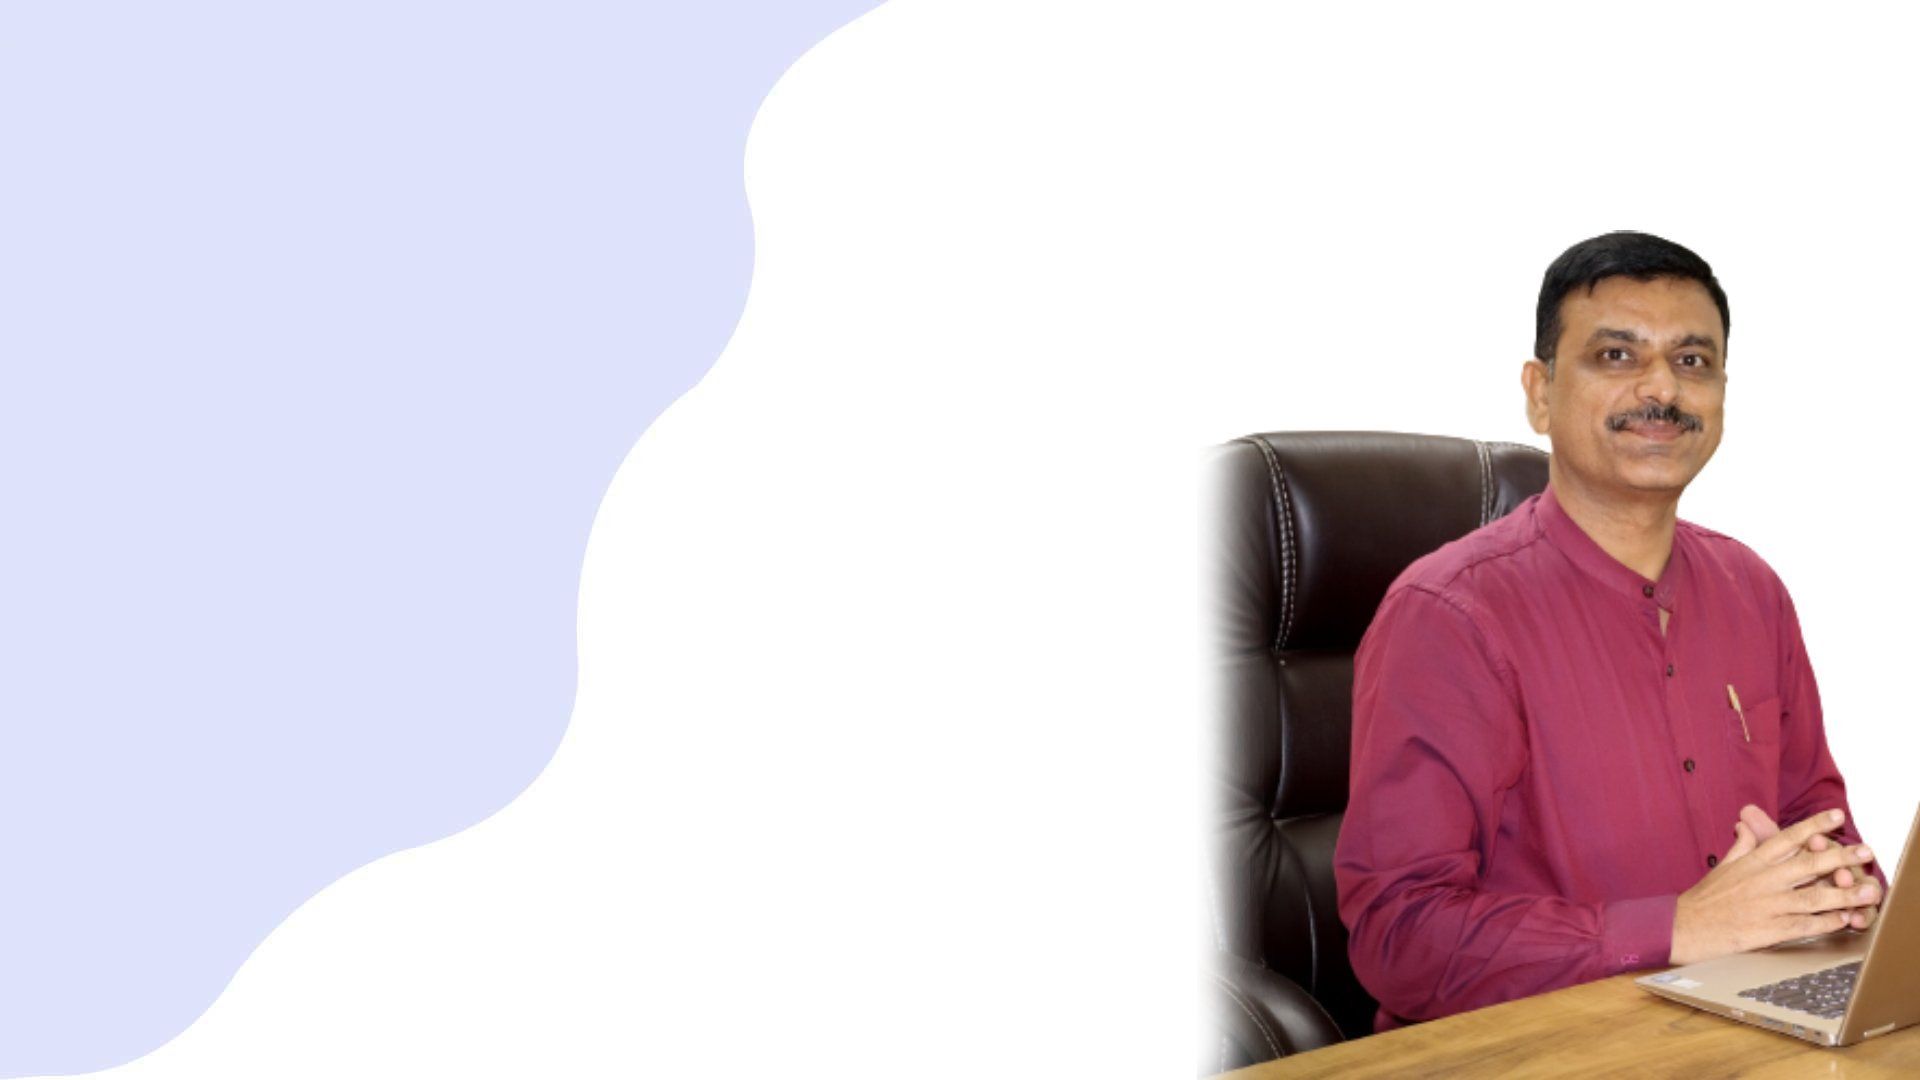
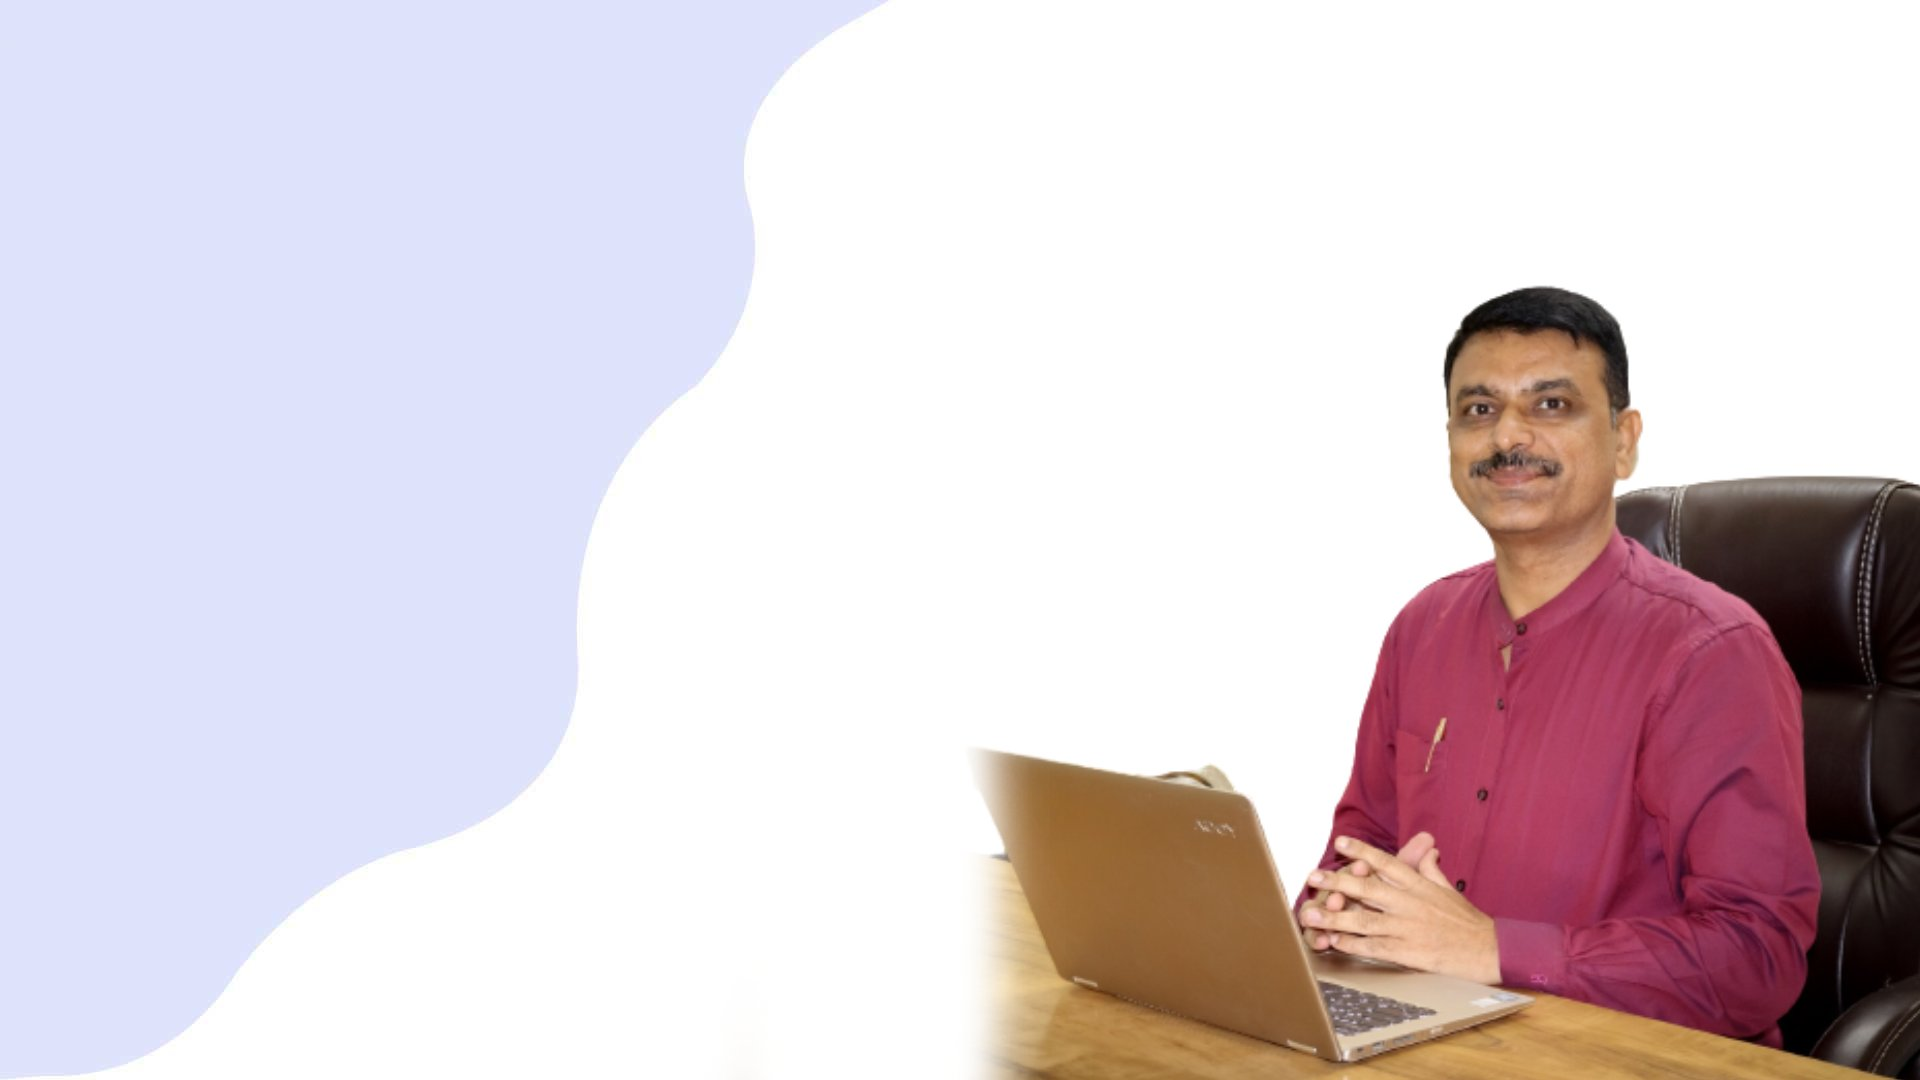
neew

Changed region(s): [[0.5, 0.2139, 1.0, 1.0], [0.8438, 0.9778, 0.875, 1.0]]

diff --git a/index.html b/index.html
@@ -125,7 +125,8 @@
         <div id="header-carousel" class="carousel slide carousel-fade" data-bs-ride="carousel">
             <div class="carousel-inner">
                 <div class="carousel-item active">
-                    <img class="w-100" src="img/carousel-1.jpg" alt="Image">
+                    <img class="w-100 d-none d-md-block" src="img/carousel-1.jpg" alt="Image">
+                    <img class="w-100 d-block d-md-none" src="img/mcarousel-1.jpg" alt="Image">
                     <div class="carousel-caption">
                         <div class="container">
                             <div class="row justify-content-start">
@@ -147,9 +148,6 @@
                         <div class="container">
                             <div class="row justify-content-start">
                                 <div class="col-lg-7">
-                                    <p
-                                        class="d-inline-block border border-white rounded text-primary fw-semi-bold py-1 px-3 animated slideInDown">
-                                        Welcome to Finanza</p>
                                     <h1 class="display-1 mb-4 animated slideInDown">True Financial Support For You</h1>
                                     <a href="" class="btn btn-primary py-3 px-5 animated slideInDown">Explore More</a>
                                 </div>
